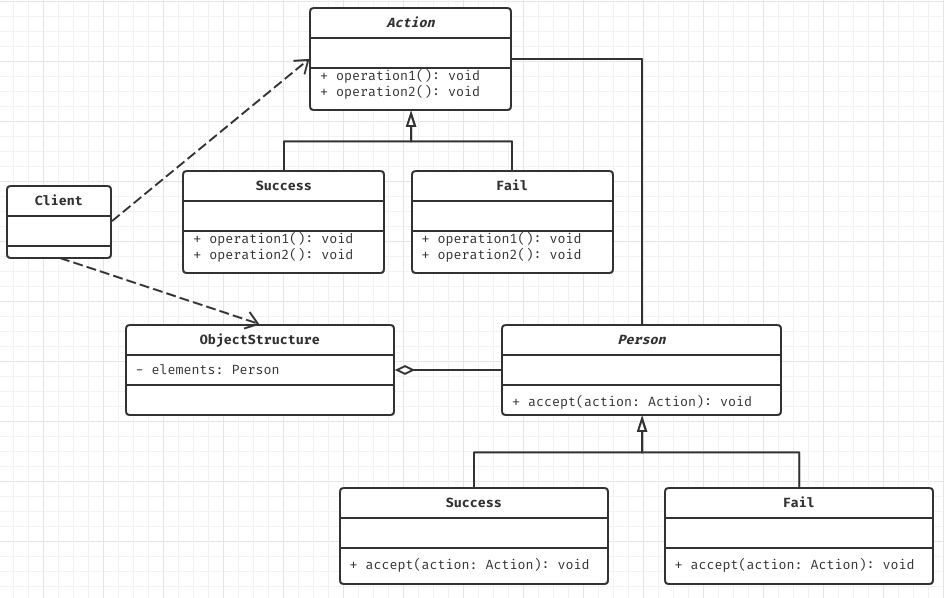
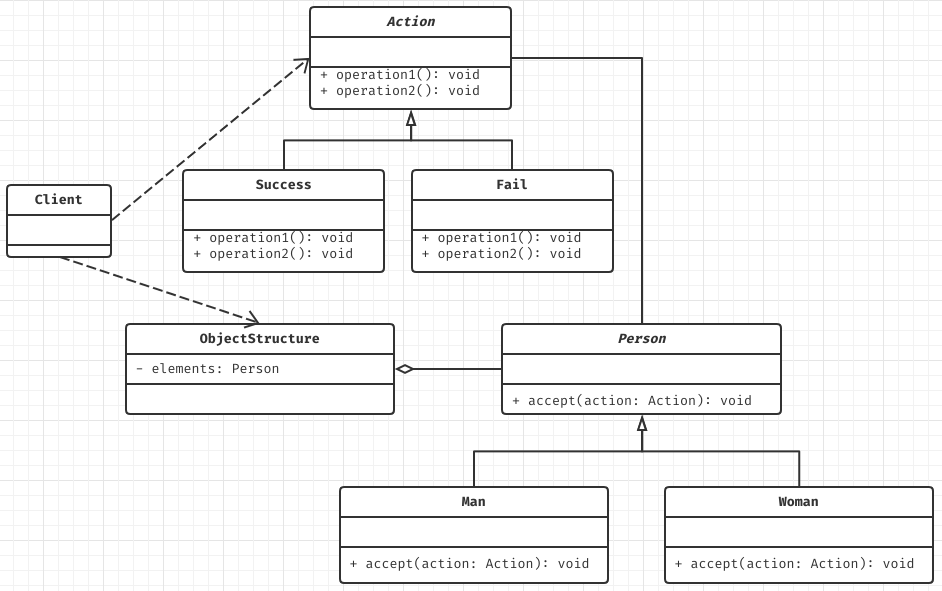
Add 访问者模式

diff --git a/src/buzz/yixiaobai/visitorpattern/demo01/ObjectStructure.java b/src/buzz/yixiaobai/visitorpattern/demo01/ObjectStructure.java
@@ -1,7 +1,38 @@
-package buzz.yixiaobai.visitorpattern.demo01;/**
-  *     
-  * @author          yixiaobai
-  * @create          2022/04/27 下午8:00
-  */  
+package buzz.yixiaobai.visitorpattern.demo01;
+
+import java.util.LinkedList;
+import java.util.List;
+
+/**
+ * @author yixiaobai
+ * @create 2022/04/27 下午8:00
+ */
 public class ObjectStructure {
+
+    // 维护了一个集合
+    private List<Person> persons = new LinkedList<>();
+
+
+    // 增加到list
+    public void attach(Person p){
+        persons.add(p);
+    }
+
+    /**
+     * 移除
+     * @param p
+     */
+    public void detach(Person p) {
+        persons.remove(p);
+    }
+
+    /**
+     * 显示评分情况
+     * @param action
+     */
+    public void display(Action action){
+        for(Person p : persons){
+            p.accept(action);
+        }
+    }
 }

diff --git a/src/buzz/yixiaobai/visitorpattern/demo01/Client.java b/src/buzz/yixiaobai/visitorpattern/demo01/Client.java
@@ -1,7 +1,26 @@
-package buzz.yixiaobai.visitorpattern.demo01;/**
-  *     
-  * @author          yixiaobai
-  * @create          2022/04/27 下午8:02
-  */  
+package buzz.yixiaobai.visitorpattern.demo01;
+
+/**
+ * 访问者模式-客户端
+ * @author yixiaobai
+ * @create 2022/04/27 下午8:02
+ */
 public class Client {
+
+    public static void main(String[] args){
+        // 创建ObjectStructure
+        ObjectStructure objectStructure = new ObjectStructure();
+
+        objectStructure.attach(new Man());
+        objectStructure.attach(new Woman());
+
+        // 成功
+        Success success = new Success();
+        objectStructure.display(success);
+
+        System.out.println("===========================");
+        // 失败
+        Fail fail = new Fail();
+        objectStructure.display(fail);
+    }
 }

diff --git a/src/buzz/yixiaobai/visitorpattern/demo01/Woman.java b/src/buzz/yixiaobai/visitorpattern/demo01/Woman.java
@@ -1,7 +1,15 @@
-package buzz.yixiaobai.visitorpattern.demo01;/**
-  *     
-  * @author          yixiaobai
-  * @create          2022/04/27 下午7:34
-  */  
-public class Woman {
+package buzz.yixiaobai.visitorpattern.demo01;
+
+/**
+ * 说明：
+ *  1、这里我们使用了双分派，即首先在客户端程序中，将具体状态作为参数传递Woman中（第一次分派）
+ *  2、然后Woman类调用作为参数的“具体方法”中方法getManResult，同时将自己（this）作为参数传入，完成第二次的分派
+ * @author yixiaobai
+ * @create 2022/04/27 下午7:34
+ */
+public class Woman extends Person{
+    @Override
+    public void accept(Action action) {
+        action.getWomanResult(this);
+    }
 }

diff --git a/src/buzz/yixiaobai/visitorpattern/demo01/Man.java b/src/buzz/yixiaobai/visitorpattern/demo01/Man.java
@@ -1,7 +1,15 @@
-package buzz.yixiaobai.visitorpattern.demo01;/**
-  *     
-  * @author          yixiaobai
-  * @create          2022/04/27 下午7:34
-  */  
-public class Man {
+package buzz.yixiaobai.visitorpattern.demo01;
+
+/**
+ * 说明：
+ *  1、这里我们使用了双分派，即首先在客户端程序中，将具体状态作为参数传递Man中（第一次分派）
+ *  2、然后Man类调用作为参数的“具体方法”中方法getManResult，同时将自己（this）作为参数传入，完成第二次的分派
+ * @author yixiaobai
+ * @create 2022/04/27 下午7:34
+ */
+public class Man extends Person{
+    @Override
+    public void accept(Action action) {
+        action.getManResult(this);
+    }
 }

diff --git a/src/buzz/yixiaobai/visitorpattern/demo01/Success.java b/src/buzz/yixiaobai/visitorpattern/demo01/Success.java
@@ -1,7 +1,18 @@
-package buzz.yixiaobai.visitorpattern.demo01;/**
-  *     
-  * @author          yixiaobai
-  * @create          2022/04/27 下午7:47
-  */  
-public class Success {
+package buzz.yixiaobai.visitorpattern.demo01;
+
+/**
+ * @author yixiaobai
+ * @create 2022/04/27 下午7:47
+ */
+public class Success extends Action{
+
+    @Override
+    public void getManResult(Man man) {
+        System.out.println(" 男人给的评价该歌手很成功 ");
+    }
+
+    @Override
+    public void getWomanResult(Woman woman) {
+        System.out.println(" 女人给的评价该歌手很成功 ");
+    }
 }

diff --git a/src/buzz/yixiaobai/visitorpattern/demo01/Fail.java b/src/buzz/yixiaobai/visitorpattern/demo01/Fail.java
@@ -1,7 +1,17 @@
-package buzz.yixiaobai.visitorpattern.demo01;/**
-  *     
-  * @author          yixiaobai
-  * @create          2022/04/27 下午7:49
-  */  
-public class Fail {
+package buzz.yixiaobai.visitorpattern.demo01;
+
+/**
+ * @author yixiaobai
+ * @create 2022/04/27 下午7:49
+ */
+public class Fail extends Action{
+    @Override
+    public void getManResult(Man man) {
+        System.out.println(" 男人给的评价该歌手很失败");
+    }
+
+    @Override
+    public void getWomanResult(Woman woman) {
+        System.out.println(" 女人给的评价该歌手很失败");
+    }
 }

diff --git a/src/buzz/yixiaobai/visitorpattern/demo01/Action.java b/src/buzz/yixiaobai/visitorpattern/demo01/Action.java
@@ -1,7 +1,12 @@
-package buzz.yixiaobai.visitorpattern.demo01;/**
-  *     
-  * @author          yixiaobai
-  * @create          2022/04/27 下午7:02
-  */  
-public class Action {
+package buzz.yixiaobai.visitorpattern.demo01;
+
+/**
+ * @author yixiaobai
+ * @create 2022/04/27 下午7:02
+ */
+public abstract class Action {
+
+    public abstract void getManResult(Man man);
+
+    public abstract void getWomanResult(Woman woman);
 }

diff --git a/src/buzz/yixiaobai/visitorpattern/demo01/Person.java b/src/buzz/yixiaobai/visitorpattern/demo01/Person.java
@@ -1,7 +1,11 @@
-package buzz.yixiaobai.visitorpattern.demo01;/**
-  *     
-  * @author          yixiaobai
-  * @create          2022/04/27 下午7:35
-  */  
-public class Person {
+package buzz.yixiaobai.visitorpattern.demo01;
+
+/**
+ * @author yixiaobai
+ * @create 2022/04/27 下午7:35
+ */
+public abstract class Person {
+
+    // 提供一个方法，让访问者可以访问
+    public abstract void accept(Action action);
 }
